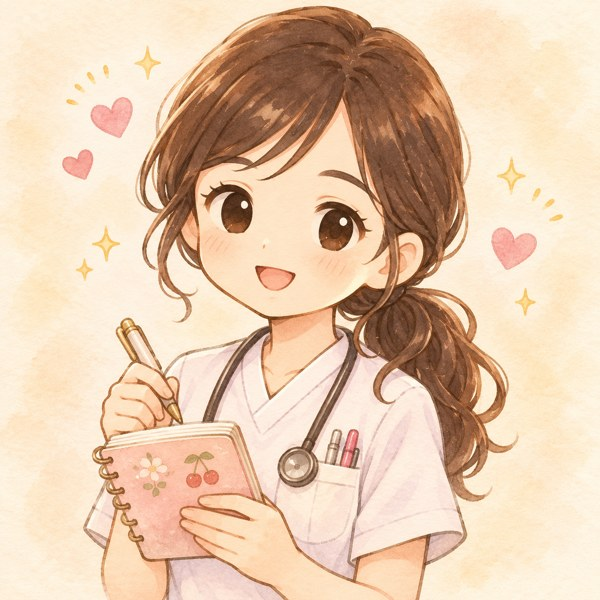
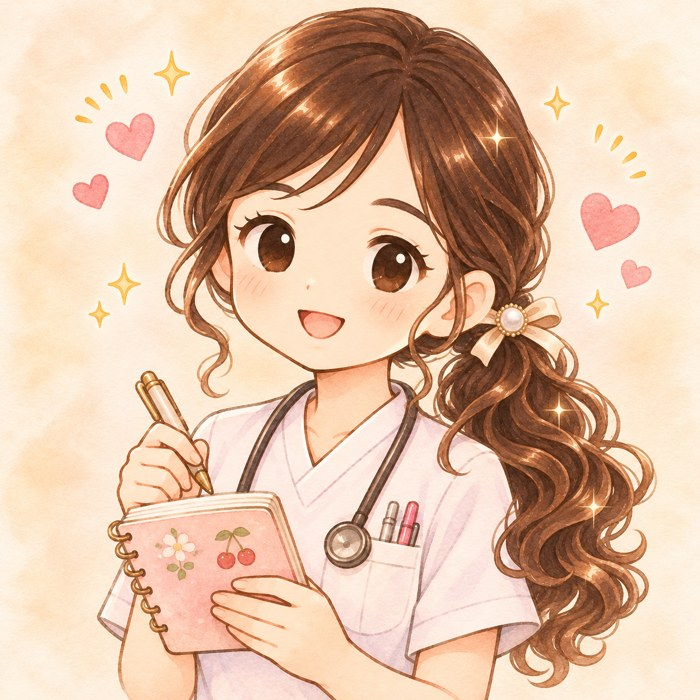
強みで書く、わたしの目標：ちょるさんのアイコンをきゅるきゅる巻き髪に

diff --git a/strengths-journal-goal-2026-11-12/index.html b/strengths-journal-goal-2026-11-12/index.html
@@ -52,7 +52,7 @@ a{color:var(--accent2)}
 .legend{display:flex;flex-wrap:wrap;gap:.4em;align-items:center;margin:.3em 0 0}
 @media(min-width:761px) and (max-width:1100px){#s-sf .g4{grid-template-columns:repeat(2,1fr)}}
 .nw{white-space:nowrap}.cover h1{font-size:clamp(30px,4.4vw,66px)}.cover .lead{font-size:clamp(15px,1.7vw,24px)}
-.who{display:flex;align-items:center;gap:.7em;margin-bottom:.5em}.who img{width:clamp(56px,6vw,84px);height:clamp(56px,6vw,84px);border-radius:50%;object-fit:cover;object-position:50% 30%;border:3px solid #fff;box-shadow:0 3px 10px rgba(120,80,40,.2)}.who h3{margin:0}
+.who{display:flex;align-items:center;gap:.7em;margin-bottom:.5em}.who img{width:clamp(84px,10vw,150px);height:clamp(84px,10vw,150px);border-radius:50%;object-fit:cover;object-position:50% 40%;border:3px solid #fff;box-shadow:0 3px 10px rgba(120,80,40,.2)}.who h3{margin:0}
 .pic.tall{max-height:70vh;max-width:min(520px,100%)}
 .pic{display:block;width:100%;max-width:min(980px,100%);max-height:52vh;object-fit:contain;margin:.4em auto .6em;border-radius:20px}
 .cover{display:grid;grid-template-columns:1fr 1.15fr;gap:clamp(16px,3vw,48px);align-items:center}.cover .pic{max-height:70vh;box-shadow:0 10px 30px rgba(120,80,40,.15)}
